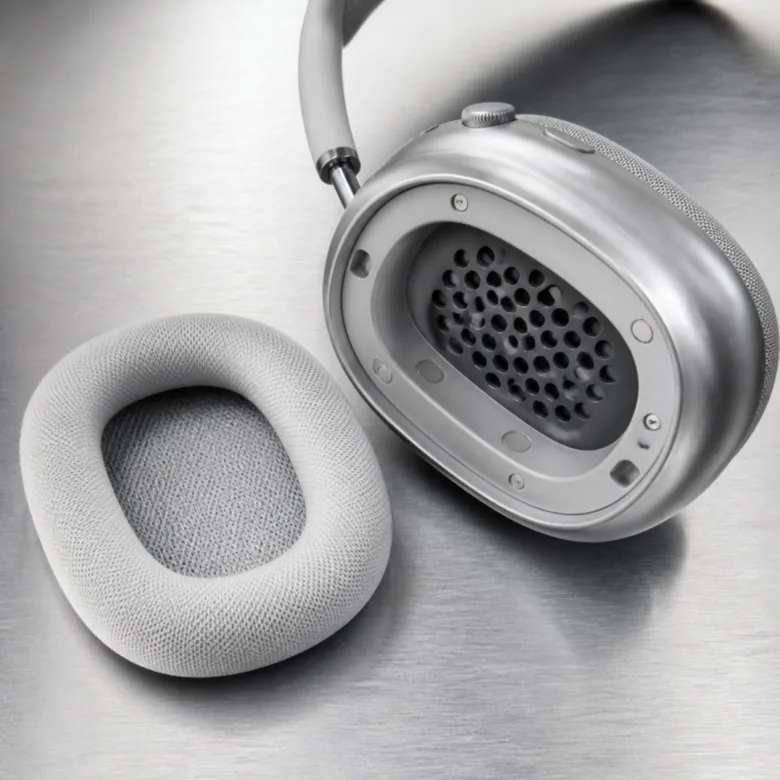
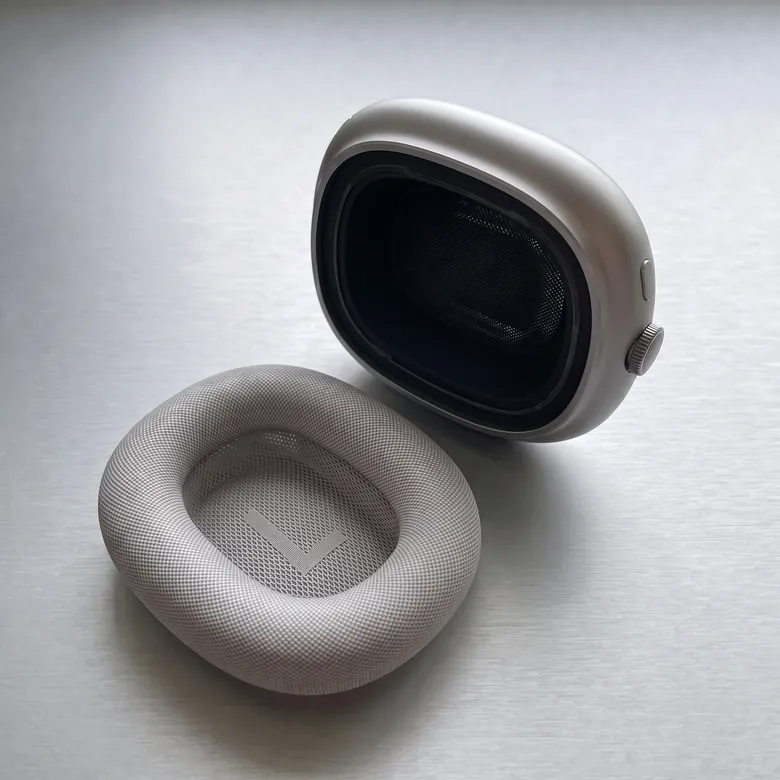
Étapes : trois nouvelles images réalistes générées à partir des photos officielles Apple et des vraies photos
Dépose, nettoyage et séchage régénérées avec Vertex AI (gemini-3-pro-image) en prenant les photos Apple et celles de Hans comme références : coussinet bas en maille fine, L et R, une seule molette et un bouton, intérieur sombre maillé. Alt mis à jour, provenance dans les .json, cache forcé (?v=2).

diff --git a/index.html b/index.html
@@ -85,20 +85,20 @@
         <div class="sps-root" role="region" aria-roledescription="carousel" aria-label="La remise à neuf, en trois étapes" tabindex="0">
           <div class="sps-media">
           <div class="sps-shot" data-on aria-hidden="false">
-            <div class="sps-img"><img src="photos/etape-depose.webp" width="1264" height="1264" alt="Coussinet détaché posé à côté de l’écouteur en aluminium." loading="eager" decoding="async" draggable="false"></div>
+            <div class="sps-img"><img src="photos/etape-depose.webp?v=2" width="1264" height="1264" alt="Écouteur en aluminium posé sur le côté, son coussinet détaché devant lui, face interne vers le haut." loading="eager" decoding="async" draggable="false"></div>
           </div>
           <div class="sps-shot" aria-hidden="true">
-            <div class="sps-img"><img src="photos/etape-nettoyage.webp" width="1264" height="1264" alt="Gros plan sur la maille blanche d’un coussinet, avec des gouttes d’eau." loading="lazy" decoding="async" draggable="false"></div>
+            <div class="sps-img"><img src="photos/etape-nettoyage.webp?v=2" width="1264" height="1264" alt="Gros plan sur la maille d’un coussinet : la moitié gauche est en cours de nettoyage, la droite est déjà propre." loading="lazy" decoding="async" draggable="false"></div>
           </div>
           <div class="sps-shot" aria-hidden="true">
-            <div class="sps-img"><img src="photos/etape-sechage.webp" width="1264" height="1264" alt="Deux coussinets blancs qui sèchent à plat sur un linge gris." loading="lazy" decoding="async" draggable="false"></div>
+            <div class="sps-img"><img src="photos/etape-sechage.webp?v=2" width="1264" height="1264" alt="Deux coussinets blancs qui sèchent à plat sur un linge gris." loading="lazy" decoding="async" draggable="false"></div>
           </div>
             <p class="sps-brand"><span class="tag">La remise à neuf</span></p>
           </div>
           <ul class="sps-dots" aria-label="Choisir une étape">
-          <li><button type="button" class="sps-dot" aria-label="Dépose" aria-current="true" data-sps-go="0"><img src="photos/etape-depose-120.webp" width="42" height="42" alt="" draggable="false"></button></li>
-          <li><button type="button" class="sps-dot" aria-label="Traitement en profondeur" aria-current="false" data-sps-go="1"><img src="photos/etape-nettoyage-120.webp" width="42" height="42" alt="" draggable="false"></button></li>
-          <li><button type="button" class="sps-dot" aria-label="Séchage, remise en forme, contrôle" aria-current="false" data-sps-go="2"><img src="photos/etape-sechage-120.webp" width="42" height="42" alt="" draggable="false"></button></li>
+          <li><button type="button" class="sps-dot" aria-label="Dépose" aria-current="true" data-sps-go="0"><img src="photos/etape-depose-120.webp?v=2" width="42" height="42" alt="" draggable="false"></button></li>
+          <li><button type="button" class="sps-dot" aria-label="Traitement en profondeur" aria-current="false" data-sps-go="1"><img src="photos/etape-nettoyage-120.webp?v=2" width="42" height="42" alt="" draggable="false"></button></li>
+          <li><button type="button" class="sps-dot" aria-label="Séchage, remise en forme, contrôle" aria-current="false" data-sps-go="2"><img src="photos/etape-sechage-120.webp?v=2" width="42" height="42" alt="" draggable="false"></button></li>
           </ul>
           <div class="sps-panel">
             <div class="sps-copy" aria-live="polite">

diff --git a/PRODUCT.md b/PRODUCT.md
@@ -42,7 +42,7 @@ Cleaning instead of replacing: a cushion-specific process that restores the orig
 ## Imagery
 
 - Real photos (proof): photos/pads-sales-*.jpg, photos/casque-propre.jpg; synthetic after: photos/clean.* (labeled).
-- AI-generated atmosphere images (Canva, 2026-11-07): photos/casque-aluminium.*, photos/etape-depose.*, photos/etape-nettoyage.*, photos/etape-sechage.*. Illustration only, never before/after proof; to be replaced by real shots of the workshop.
+- AI-generated step illustrations (Google Vertex AI gemini-3-pro-image, 2026-11-09, from official Apple photos + Hans real photos as references): photos/etape-depose.*, photos/etape-nettoyage.*, photos/etape-sechage.*. Illustration only, never before/after proof; to be replaced by real shots of the workshop. photos/casque-aluminium.* is an older Canva image, no longer used on the page.
 
 ## Brand commitments
 
